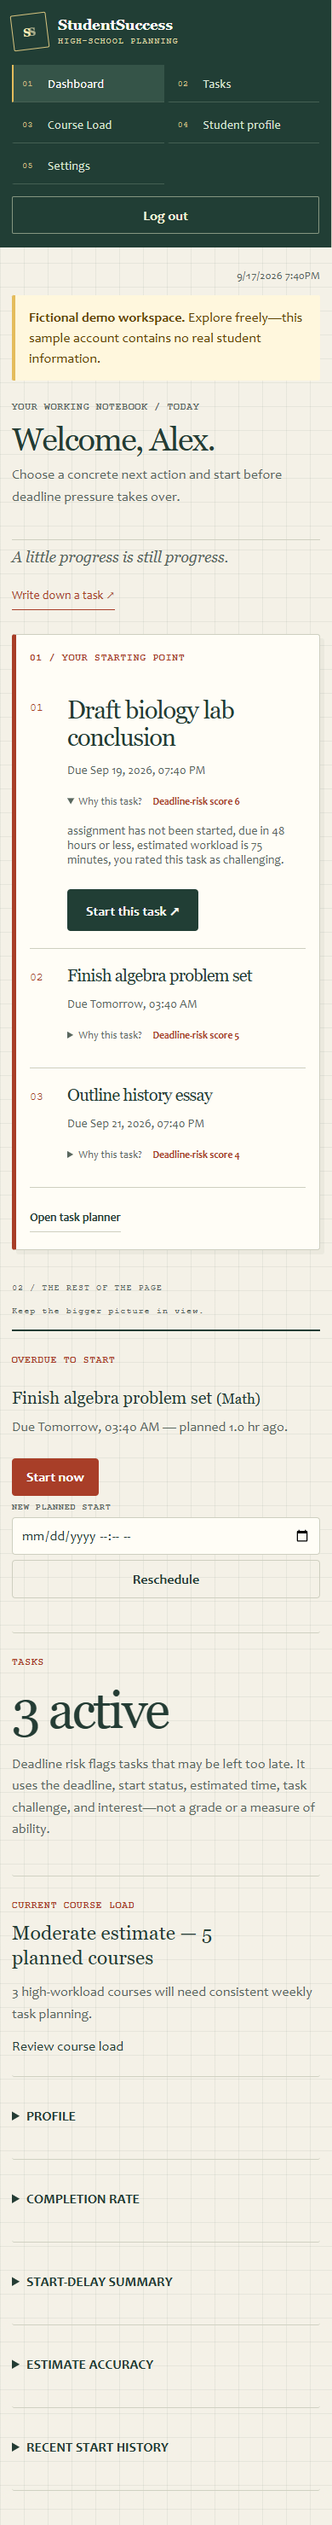
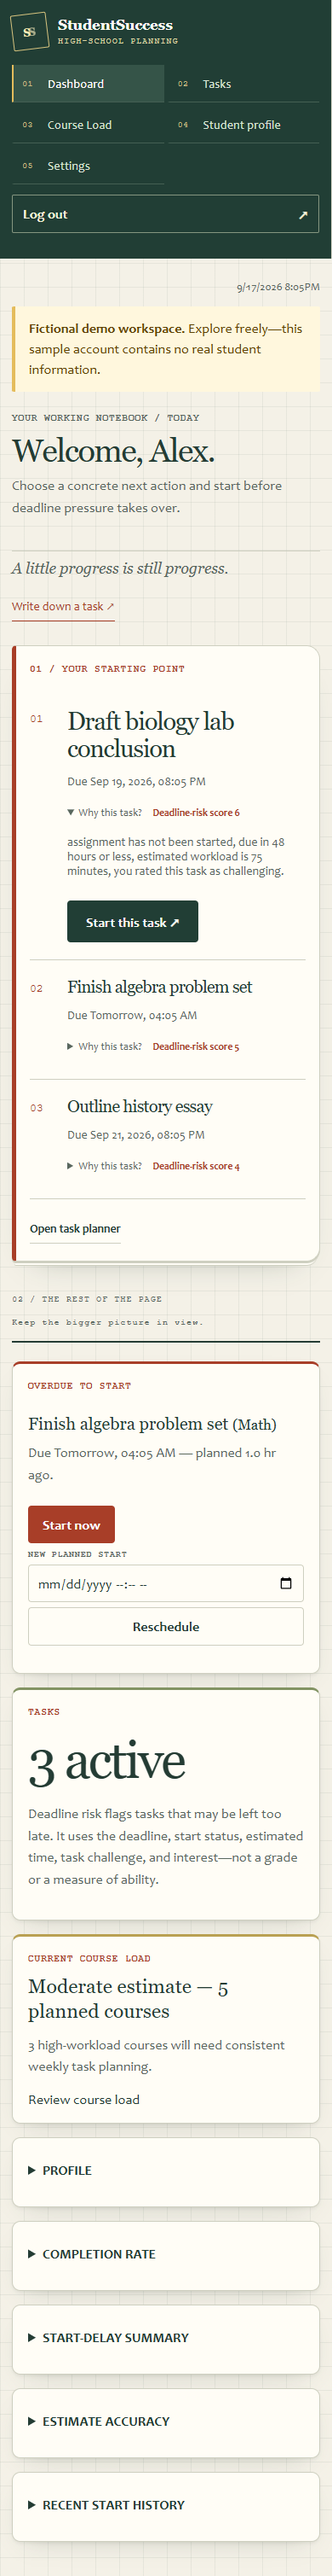
Add paper depth and motion, restore cards, and streamline settings and logout

diff --git a/static/css/depth.css b/static/css/depth.css
@@ -1,0 +1,52 @@
+/* Paper has weight: layered edges, directional shadows, and restrained perspective. */
+:root { --paper-lift:0 2px 3px #182b2410,0 12px 28px -16px #182b2440; }
+.notebook-dashboard .grid { gap:22px; margin-top:22px; align-items:start; }
+.notebook-dashboard .grid>.card,.notebook-dashboard .grid>.card-tasks { padding:24px; background:var(--white); border:1px solid var(--line); border-radius:10px; box-shadow:var(--paper-lift); }
+.notebook-dashboard .grid>.card-overdue { border-top:3px solid var(--blue); }
+.notebook-dashboard .grid>.card-tasks { border-top:3px solid #829363; }
+.notebook-dashboard .grid>.card-courses { border-top:3px solid #b9a052; }
+.notebook-dashboard .grid>.card h2 { line-height:1.25; }
+.notebook-dashboard .focus-card { border-radius:5px 16px 16px 5px; box-shadow:0 2px 0 var(--line),0 7px 0 -3px var(--white),0 8px 0 -3px var(--line),0 20px 38px -28px #142d2470; }
+.notebook-dashboard .sidebar-logout { margin-top:22px; }
+.sidebar-logout .logout-button { display:flex; justify-content:space-between; align-items:center; }
+@media(min-width:681px) { .notebook-dashboard .shell>.sidebar { position:sticky; top:0; align-self:start; height:100dvh; overflow-y:auto; gap:32px; } }
+.settings-workspace main { width:min(1440px,calc(100% - 56px)); }
+.settings-workspace main>header { margin-bottom:18px; padding-bottom:6px; }
+.settings-toolbar { position:sticky; top:0; z-index:20; display:flex; justify-content:space-between; align-items:center; gap:18px; padding:12px 16px; margin-bottom:20px; background:var(--white); border:1px solid var(--line); border-radius:6px; box-shadow:var(--paper-lift); }
+.settings-toolbar>span { font:italic 1.2rem Georgia,serif; color:var(--muted); }
+.settings-toolbar .primary { color:#fff; background:#a83e28; }
+.settings-workspace .settings-form { grid-template-columns:repeat(2,minmax(0,1fr)); gap:20px; align-items:start; }
+.settings-workspace .settings-form>section { padding:22px; border-radius:10px; box-shadow:var(--paper-lift); min-width:0; scroll-margin-top:90px; }
+.settings-workspace .settings-form>section h2 { margin-top:0; }
+.settings-workspace .fields { grid-template-columns:repeat(2,minmax(0,1fr)); }
+.settings-workspace .fields>* { min-width:0; }
+.settings-workspace select,.settings-workspace input:not([type=checkbox]) { width:100%; min-width:0; }
+.settings-workspace .account { border-radius:10px; }
+.settings-workspace .account-grid { grid-template-columns:repeat(3,minmax(0,1fr)); }
+.settings-workspace .account-grid article { min-width:0; }
+.desk-scene { perspective:1400px; isolation:isolate; border-radius:6px 18px 18px 6px; box-shadow:0 2px 0 var(--line),0 8px 0 -3px var(--white),0 9px 0 -3px var(--line),0 15px 0 -7px var(--white),0 16px 0 -7px var(--line),0 34px 65px -30px #243c3440; }
+.desk-scene .start-lab { transform:rotateX(var(--tilt-x,0deg)) rotateY(var(--tilt-y,0deg)) rotateZ(2deg); transform-origin:50% 55%; border-radius:2px 2px 18px 2px; box-shadow:2px 4px 6px #243c3410,14px 22px 35px -15px #243c3455; transition:transform .35s ease-out,box-shadow .35s; }
+.desk-scene.is-arranged .start-lab { transform:rotateX(var(--tilt-x,0deg)) rotateY(var(--tilt-y,0deg)); box-shadow:2px 6px 8px #243c3415,8px 18px 30px -15px #243c3450; }
+.lab-sheet { position:relative; box-shadow:0 2px 2px #243c3415,0 8px 12px -8px #243c3440; }
+.note-assignment { box-shadow:0 2px 3px #67512020,7px 18px 25px -12px #67512065; border-radius:2px 2px 20px 2px; }
+.note-assignment::after { content:""; position:absolute; bottom:0; right:0; width:22px; height:22px; background:#cbb757; clip-path:polygon(100% 0,100% 100%,0 100%); border-radius:0 0 18px 0; }
+.note-time { box-shadow:0 2px 3px #713a2a15,6px 15px 22px -10px #713a2a45; }
+.paper-flight { position:absolute; z-index:3; width:150px; height:116px; top:-65px; left:47%; pointer-events:none; transform:rotate(-12deg); filter:drop-shadow(12px 24px 7px #243c3428); }
+.paper-flight svg { width:100%; height:100%; overflow:visible; }
+.flight-trail { fill:none; stroke:var(--blue); stroke-width:1.5; stroke-dasharray:4 6; opacity:.6; }
+.folded-plane { transform-origin:100px 65px; }
+@keyframes paper-takeoff { 0% { transform:translate(0,0) rotate(0); } 45% { transform:translate(30px,-35px) rotate(-12deg); } 75% { transform:translate(-8px,-12px) rotate(4deg); } 100% { transform:translate(0,0) rotate(0); } }
+@keyframes ink-check { from { stroke-dashoffset:50; } to { stroke-dashoffset:0; } }
+@keyframes paper-arrive { from { opacity:.65; transform:translateY(12px); } to { opacity:1; transform:translateY(0); } }
+.desk-scene:has(.is-ready) .folded-plane { animation:paper-takeoff 1.4s cubic-bezier(.22,1,.36,1) both; }
+.desk-scene:has(.is-ready) .flight-trail { stroke-dasharray:150; animation:ink-check 1s ease-out; }
+.depth-enter { animation:paper-arrive .55s ease-out both; }
+@media(hover:hover) and (pointer:fine) { .course-card,.task-card { transition:box-shadow .2s,border-color .2s; } .course-card:hover,.task-card:hover { box-shadow:0 10px 22px -12px #243c3455; border-color:var(--muted); } }
+[data-theme="dark"] .notebook-dashboard .grid>.card { background:var(--white)!important; }
+[data-theme="high-contrast"] .notebook-dashboard .grid>.card { border:1px solid #fff; box-shadow:none; }
+[data-theme="high-contrast"] .desk-scene,[data-theme="high-contrast"] .start-lab { box-shadow:none; }
+@media(max-width:1000px) { .settings-workspace .settings-form { grid-template-columns:1fr; } .settings-workspace .account-grid { grid-template-columns:repeat(2,minmax(0,1fr)); } }
+@media(max-width:780px) { .paper-flight { width:100px; height:78px; left:auto; right:4px; top:-45px; } .desk-scene .start-lab { transform:none; } }
+@media(max-width:680px) { .settings-workspace main { width:calc(100% - 28px); } .settings-workspace .fields,.settings-workspace .account-grid { grid-template-columns:1fr; } .settings-toolbar { padding:10px; gap:10px; } .settings-toolbar>span { font-size:.9rem; } .settings-toolbar .primary { padding:10px; } .notebook-dashboard .grid>.card,.notebook-dashboard .grid>.card-tasks { padding:18px; } .notebook-dashboard .grid { gap:16px; } .notebook-dashboard .sidebar-logout { margin-top:12px; } }
+@media(prefers-reduced-motion:reduce) { .desk-scene .start-lab,.desk-scene.is-arranged .start-lab { transform:none; } }
+[data-motion="reduced"] .desk-scene .start-lab { transform:none; }

diff --git a/templates/settings.html b/templates/settings.html
@@ -7,14 +7,15 @@
   <link rel="stylesheet" href="{{ url_for('static', filename='css/settings.css') }}">
   {% include '_accessibility_head.html' %}
 </head>
-<body>
+<body class="settings-workspace">
   {% include '_accessibility_body.html' %}
   <main id="main-content">
     <header><div><p class="eyebrow">STUDENTSUCCESS / SETTINGS</p><h1>Settings</h1><p>Adjust your workspace, accessibility, and account.</p></div><a href="{{ url_for('main.dashboard') }}">Back to dashboard</a></header>
 
     {% with messages = get_flashed_messages(with_categories=true) %}{% if messages %}<div class="flash" role="status">{% for category,message in messages %}<p class="flash-{{ category }}">{{ message }}</p>{% endfor %}</div>{% endif %}{% endwith %}
 
-    <form method="post" class="settings-form">
+    <div class="settings-toolbar"><span>Your workspace, your way.</span><button class="primary" type="submit" form="workspace-settings">Save all settings</button></div>
+    <form method="post" class="settings-form" id="workspace-settings">
       <section><h2>Appearance</h2><p>Browser zoom and assistive technology continue to work with these preferences.</p><div class="fields">
         <label>Theme<select name="theme"><option value="light" {% if settings.theme in ('light', 'system') %}selected{% endif %}>Light</option><option value="dark" {% if settings.theme=='dark' %}selected{% endif %}>Dark</option><option value="high-contrast" {% if settings.theme=='high-contrast' %}selected{% endif %}>High contrast</option></select></label>
         <label>Text size<select name="text_scale">{% for size in [100,125,150,200] %}<option value="{{ size }}" {% if settings.text_scale==size %}selected{% endif %}>{{ size }}%</option>{% endfor %}</select></label>
@@ -54,7 +55,6 @@
         <label>Inactive session timeout<select name="session_timeout_minutes">{% for minutes in [30,60,120,480] %}<option value="{{ minutes }}" {% if settings.session_timeout_minutes==minutes %}selected{% endif %}>{% if minutes==480 %}8 hours{% else %}{{ minutes }} minutes{% endif %}</option>{% endfor %}</select></label>
       </div></section>
 
-      <button class="primary" type="submit">Save all settings</button>
     </form>
 
     <section class="account"><h2>Account and privacy</h2><div class="account-grid">

diff --git a/static/js/depth.js b/static/js/depth.js
@@ -1,0 +1,38 @@
+(() => {
+  const reduced = matchMedia('(prefers-reduced-motion: reduce)');
+  const precise = matchMedia('(hover: hover) and (pointer: fine)');
+  const scene = document.querySelector('.desk-scene');
+  const canMove = () => !reduced.matches && document.documentElement.dataset.motion !== 'reduced';
+  if (scene) {
+    let frame = 0;
+    const reset = () => {
+      cancelAnimationFrame(frame);
+      scene.style.removeProperty('--tilt-x');
+      scene.style.removeProperty('--tilt-y');
+    };
+    scene.addEventListener('pointermove', event => {
+      if (!canMove() || !precise.matches) return;
+      cancelAnimationFrame(frame);
+      frame = requestAnimationFrame(() => {
+        if (!canMove()) return;
+        const rect = scene.getBoundingClientRect();
+        scene.style.setProperty('--tilt-x', `${(0.5 - (event.clientY - rect.top) / rect.height) * 4}deg`);
+        scene.style.setProperty('--tilt-y', `${((event.clientX - rect.left) / rect.width - 0.5) * 5}deg`);
+      });
+    });
+    scene.addEventListener('pointerleave', reset);
+    reduced.addEventListener('change', reset);
+    precise.addEventListener('change', reset);
+    new MutationObserver(reset).observe(document.documentElement, {attributes:true,attributeFilter:['data-motion']});
+  }
+  // Animate once as a section enters view; content is never hidden waiting for JS.
+  if ('IntersectionObserver' in window) {
+    const observer = new IntersectionObserver(entries => entries.forEach(entry => {
+      if (entry.isIntersecting) {
+        if (canMove()) entry.target.classList.add('depth-enter');
+        observer.unobserve(entry.target);
+      }
+    }), {threshold:0.08});
+    document.querySelectorAll('.notebook-story, .server-demo, .notebook-dashboard .grid>.card').forEach(el => observer.observe(el));
+  }
+})();

diff --git a/templates/landing.html b/templates/landing.html
@@ -40,6 +40,7 @@
         <p class="prototype-note"><strong>Explore with fictional information.</strong> Plans are saved on our server. Keep your code private: anyone with it can access your planner, and we can’t recover it if it’s lost. Don’t enter personal or identifying details.</p>
       </div>
       <div class="desk-scene" id="desk-scene">
+        <div class="paper-flight" aria-hidden="true"><svg viewBox="0 0 180 140" focusable="false"><path class="flight-trail" d="M8 120C65 125 7 48 70 64"/><g class="folded-plane"><path d="M30 58L160 18L111 116L85 78Z" fill="#f9f5df"/><path d="M30 58L160 18L85 78Z" fill="#fffdf6"/><path d="M85 78L160 18L99 85L111 116Z" fill="#d2c596"/><path d="M85 78L84 101L99 85L160 18Z" fill="#a89968"/><path d="M30 58L160 18L111 116L99 85L84 101L85 78Z" fill="none" stroke="#736946" stroke-width="1.2"/></g></svg></div>
         <div class="desk-caption"><span>01 / MAKE A LITTLE ROOM</span><span>Less looming. More doing.</span></div>
         <div class="loose-notes" aria-label="A sample assignment becoming a starting plan">
           <div class="loose-note note-assignment"><span class="note-label">ON YOUR MIND</span><strong id="desk-assignment">The whole problem set.</strong><span class="pencil-note">Where do I even begin?</span></div>

diff --git a/templates/dashboard.html b/templates/dashboard.html
@@ -27,12 +27,12 @@
           <a href="{{ url_for('profile.profile_view') }}">{% if g.current_user.access_credential %}Planning preferences{% else %}Student profile{% endif %}</a>
           <a href="{{ url_for('settings.settings') }}">Settings</a>
         </nav>
+        <form class="logout-form sidebar-logout" method="post" action="{{ url_for('auth.logout') }}">
+          <button type="submit" class="logout-button">Log out <span aria-hidden="true">&#8599;</span></button>
+        </form>
       </div>
       <div class="sidebar-footer">
         <p class="module-note">Your planned courses estimate overall workload. Your assignments determine what to work on next.</p>
-        <form class="logout-form" method="post" action="{{ url_for('auth.logout') }}">
-          <button type="submit" class="logout-button">Log out</button>
-        </form>
       </div>
     </aside>
 

diff --git a/templates/_accessibility_head.html b/templates/_accessibility_head.html
@@ -2,6 +2,8 @@
 <link rel="stylesheet" href="{{ url_for('static', filename='css/accessibility.css') }}">
 <link rel="stylesheet" href="{{ url_for('static', filename='css/mobile.css') }}">
 <link rel="stylesheet" href="{{ url_for('static', filename='css/fieldnotes.css') }}">
+<link rel="stylesheet" href="{{ url_for('static', filename='css/depth.css') }}">
+<script src="{{ url_for('static', filename='js/depth.js') }}" defer></script>
 <script src="{{ url_for('static', filename='js/compact.js') }}" defer></script>
 <link rel="icon" href="{{ url_for('static', filename='images/favicon.svg') }}" type="image/svg+xml">
 <script>

diff --git a/scripts/capture_fieldnotes.py b/scripts/capture_fieldnotes.py
@@ -26,6 +26,9 @@ def main():
             errors = []
             page.on('pageerror', lambda error: errors.append(str(error)))
             page.goto(origin)
+            scene = page.locator('#desk-scene')
+            scene.hover(position={'x':100, 'y':100})
+            page.wait_for_function("document.querySelector('#desk-scene').style.getPropertyValue('--tilt-x') !== ''")
             assert not page.locator('#welcome-dialog').evaluate('(dialog) => dialog.open')
             page.get_by_role('button', name='How this works & privacy').click()
             assert page.locator('#welcome-dialog').evaluate('(dialog) => dialog.open')
@@ -36,6 +39,7 @@ def main():
             assert arrange.get_attribute('aria-pressed') == 'true'
             assert 'One assignment.' in page.locator('#desk-status').inner_text()
             page.emulate_media(reduced_motion='reduce')
+            page.wait_for_function("document.querySelector('#desk-scene').style.getPropertyValue('--tilt-x') === ''")
             assert float(page.locator('.note-assignment').evaluate('(el) => parseFloat(getComputedStyle(el).transitionDuration)')) < .01
             arrange.click()
             assert arrange.get_attribute('aria-pressed') == 'false'
@@ -79,6 +83,26 @@ def main():
             for theme in ['dark', 'high-contrast']:
                 page.evaluate('(theme) => document.documentElement.dataset.theme = theme', theme)
                 page.screenshot(path=str(destination/f'dashboard-{theme}.png'), full_page=True)
+            page.set_viewport_size({'width':1440,'height':1000})
+            page.goto(origin+'/settings')
+            sections = page.locator('.settings-form>section')
+            first, second = sections.nth(0).bounding_box(), sections.nth(1).bounding_box()
+            assert abs(first['y'] - second['y']) < 2 and second['x'] > first['x'] + first['width']
+            page.locator('[name="default_task_minutes"]').select_option('45')
+            page.evaluate('window.scrollTo(0, 600)')
+            save = page.get_by_role('button', name='Save all settings')
+            assert 0 <= save.bounding_box()['y'] < 1000
+            save.click()
+            page.wait_for_load_state('networkidle')
+            assert page.locator('[name="default_task_minutes"]').input_value() == '45'
+            page.goto(origin+'/dashboard')
+            logout = page.get_by_role('button', name='Log out')
+            assert logout.bounding_box()['y'] < 700
+            page.evaluate('window.scrollTo(0, document.body.scrollHeight)')
+            assert 0 <= logout.bounding_box()['y'] < 1000
+            logout.click()
+            page.wait_for_load_state('networkidle')
+            assert not page.url.endswith('/dashboard')
             assert not errors, errors
             browser.close()
         print('Desk interaction, keyboard activation, reduced motion, privacy dialog, task start persistence, and browser error checks passed. Captured 14 screenshots.')
